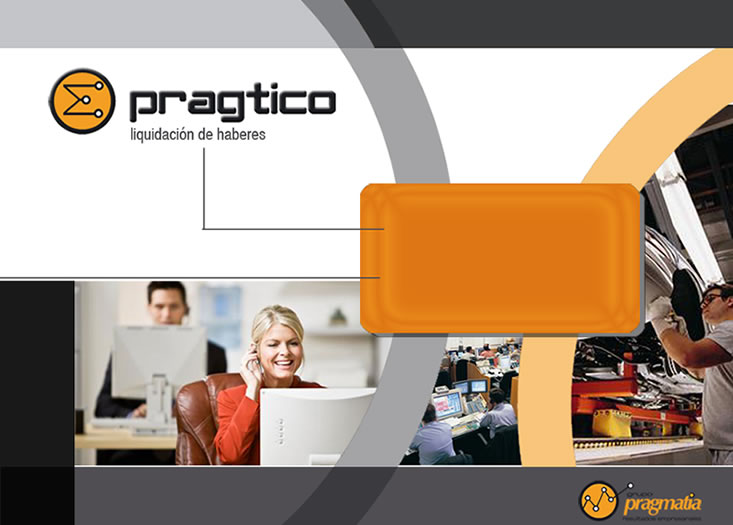
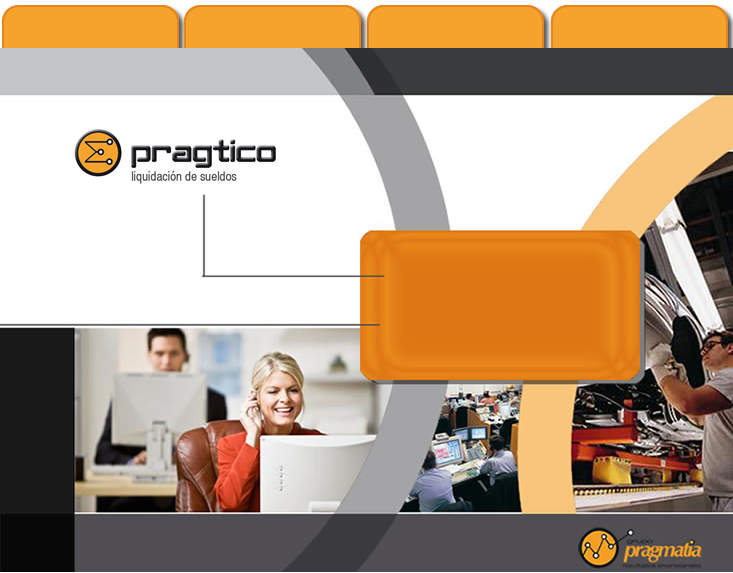
Link login with wiki

diff --git a/app/webroot/css/aplicacion.default.screen.min.css b/app/webroot/css/aplicacion.default.screen.min.css
@@ -1,1 +1,1 @@
-.seleccionar{cursor:pointer;}body{max-width:1000px;margin:2px;padding:0;font-size:10px;border:0;font-family:helvetica,verdana,arial,sans-serif;margin-left:auto;margin-right:auto;}img{border:0;}a{color:#000;text-decoration:none;}a:hover{text-decoration:underline;}ul{list-style-type:none;}li{margin:0;}li img{height:10px;width:10px;}div.login{margin-left:auto;margin-right:auto;background:transparent url(img/fondo_login.jpg) no-repeat;width:733px;height:525px;}div.login div.ingreso{padding-top:210px;padding-left:290px;width:200px;height:100px;}div.login div.ingreso label{float:left;}div.login div.ingreso div.input input{margin-bottom:4px;float:left;}div.login div.ingreso .submit input{margin-left:245px;padding-right:40px;padding-bottom:10px;margin-top:5px;font-weight:normal;background:transparent url(img/boton_secundario_gris.gif) no-repeat;cursor:pointer;}div.links_externos{margin-left:220px;margin-top:-20px;}div.links_externos a{padding:2px;display:block;float:left;}div.links_externos a img{height:14px;}div.index .botones_acciones{float:left;width:410px;}div.index div.bloque_superior_index{padding-left:15px;border-bottom:1px solid;height:28px;margin-right:8px;}div.index div.paginador_superior{padding-top:9px;margin-right:13px;float:right;}div.index div.bloque_inferior_index{margin-bottom:50px;padding-right:22px;}div.index div.navegacion{float:right;}div.index div.navegacion div{float:left;}div.index div.navegacion a{float:left;}div.index div.navegacion img{width:14px;height:14px;}div.index div.posicion{float:right;padding-right:20px;}div.index div.cantidad_a_mostrar{float:right;padding-right:20px;}div.index div.cantidad_a_mostrar a{color:#000;padding:0 1px 0 1px;}div.index div.cantidad_a_mostrar span{text-decoration:underline;padding:0 1px 0 1px;}div.contenido{background:transparent url(img/fondo_cuerpo.gif) no-repeat;margin-top:-4px;min-height:650px;}div.cuerpo{float:right;width:81%;padding-top:10px;}div.encabezado{background:#F49E23 url(img/encabezado.gif) no-repeat;width:100%;height:66px;color:#fff;}div.encabezado ul{padding-top:3px;margin:0;}div.encabezado ul li{padding-top:1px;}div.encabezado span.default{color:#202022;font-weight:bold;font-size:13px;}div.banda_izquierda{background:url(img/banda.gif) no-repeat;min-width:380px;height:45px;float:left;margin-top:-4px;}div.banda_izquierda p{padding-top:19px;padding-left:5px;float:left;font-size:12px;}div.banda{background:url(img/banda_repetir.gif) repeat-x;width:100%;height:45px;text-align:right;padding-top:4px;}div.banda span{padding:0 30px;color:#FFF;}div.banda span.bread_crumb_class{color:#000;padding:0;}div.banda img{padding-left:4px;}div.banda p{margin:5px 10px 0 0;}div.banda h5{width:500px;text-align:left;float:left;padding-top:4px;font-size:12px;}div.grupos{float:right;text-align:right;padding:5px 30px;height:50px;width:270px;overflow:auto;color:#FFF;}div.grupos a{color:#FFF;}div.menu{width:18%;float:left;font-weight:bold;}div.menu a{display:block;height:30px;margin-top:2px;}div.menu a:hover{text-decoration:none;}div.menu a.header{border:0;background:transparent url(img/boton_menu_padre.gif) no-repeat;}div.menu div{border:0;}div.menu img{float:left;}div.menu a span{font-size:11px;color:#fff;padding-top:6px;padding-left:5px;float:left;}div.menu div.panel span{float:right;padding-right:17px;}div.menu div.panel a{background:transparent url(img/boton_menu_hijo.gif) no-repeat;}div.menu div.panel a:hover{background-image:url(img/boton_menu_hijo_activo.gif);}div.unica{float:left;width:100%;max-width:860px;margin-bottom:40px;margin-right:30%;}div.unica:before,div.unica:after{display:block;line-height:0;}div.unica:after{margin-top:-35px;}div.index div.unica{background:url(img/rs-right-gris.gif) right repeat-y;}div.index div.unica:before{background:url(img/rs-topright-gris.gif) top right no-repeat;content:url(img/rs-topleft-gris.gif);}div.index div.unica:after{background:url(img/rs-bottomright-gris.gif) bottom right no-repeat;content:url(img/rs-bottomleft-gris.gif);}div.add div.unica{background:url(img/rs-right-rosa.gif) right repeat-y;}div.add div.unica:before{background:url(img/rs-topright-rosa.gif) top right no-repeat;content:url(img/rs-topleft-rosa.gif);}div.add div.unica:after{background:url(img/rs-bottomright-rosa.gif) bottom right no-repeat;content:url(img/rs-bottomleft-rosa.gif);}div.index div.tabla img{padding:0 1px 0 2px;width:14px;height:14px;}div.session_flash{color:#EDEEF0;margin:8px 3px 0 0;position:absolute;left:595px;width:534px;z-index:100;height:103px;font-size:12px;}div.session_flash_error{background:transparent url(img/aviso_error.gif) no-repeat;}div.session_flash_ok{background:transparent url(img/aviso_ok.gif) no-repeat;}div.session_flash_warning{background:transparent url(img/aviso_warning.gif) no-repeat;}div.session_flash_warning_detalle{background:transparent url(img/aviso_warning_detalle.gif) no-repeat;top:105px;height:309px;overflow:auto;display:none;border:2px solid;}div.session_flash_error_detalle{background:transparent url(img/aviso_error_detalle.gif) no-repeat;top:105px;height:309px;display:none;}div.session_flash span.detalle{font-size:10px;width:480px;float:left;padding:5px 0 0 45px;}div.session_flash span.contenido{float:left;width:480px;padding:0 0 0 45px;}div.session_flash span.titulos{float:left;padding-top:6px;margin-left:45px;border-bottom:1px dotted;}div.session_flash img{padding:7px 0 0 12px;float:left;}div.session_flash span{float:right;margin-right:18px;margin-top:7px;}label{text-align:right;width:120px;padding:0 3px;color:#000;float:left;}label.radio_label{width:195px;text-align:left;}legend{font-size:13px;border-width:1px;border-style:solid;border-bottom-color:#B7B7B9;border-top-style:none;border-right-style:none;border-left-style:none;}legend img{width:22px;height:22px;padding-right:18px;margin-top:-7px;}legend span{display:block;width:790px;}div.index legend{padding-bottom:2px;padding-left:10px;}div.add legend{padding-top:10px;padding-left:10px;background:url(img/legend_principal.gif) no-repeat;}div.add fieldset.master legend{background:url(img/legend_secundario.gif) no-repeat;}fieldset{margin:0;padding:0;border-style:none;}fieldset.master{padding-top:25px;padding-bottom:30px;}fieldset.detail{padding-top:10px;padding-bottom:30px;}div.tabla{margin:7px 13px 13px 13px;width:100%;overflow:auto;padding:0;max-width:790px;}div.tabla table{border-collapse:collapse;background-color:#F7CD93;font-size:10px;font-weight:normal;width:778px;}div.tabla table tr.alternativo{background-color:#FFF;}div.tabla table th,td.imitar_th_izquierda,td.imitar_th_derecha,td.imitar_th_centro{white-space:nowrap;background-color:#807F84;color:#FFF;padding:5px;border:1px solid #ccc;}div.tabla td.imitar_th_derecha{text-align:right;}div.tabla td.imitar_th_centro{text-align:center;}div.tabla table th a{color:#FFF;}div.tabla table th div.acciones{font-weight:normal;text-align:left;margin-left:-3px;}div.tabla table th .acciones span{font-weight:bold;margin-left:10px;}div.tabla table th .hide_actions{background:url(img/hide_actions.gif) no-repeat;cursor:pointer;padding-right:10px;padding-left:10px;}div.tabla table td{padding:3px 5px 3px 5px;border:1px solid #ccc;}div.tabla table td.acciones{white-space:nowrap;padding-right:13px;}div.tabla table th.derecha,table td.derecha{text-align:right;white-space:nowrap;}div.tabla table th.izquierda,table td.izquierda{text-align:left;}div.tabla table th.centro,table td.centro{text-align:center;}div.tabla table a.sin_orden,table a.asc_orden,table a.desc_orden{background-color:transparent;background-repeat:no-repeat;padding-left:15px;padding-top:3px;}div.tabla table a.sin_orden{background-image:url(img/orden_0.gif);}div.tabla table a.asc_orden{background-image:url(img/orden_1.gif);}div.tabla table a.desc_orden{background-image:url(img/orden_2.gif);}div.input{padding:3px 0 3px 0;margin-left:5px;float:left;width:365px;}input,textarea,select{float:left;width:196px;margin-right:2px;border:0;background:transparent url(img/text_input.gif) no-repeat;}input[disabled]{background-color:#EAEAEA;color:black;}input[type="file"]{width:210px;}input[type="radio"],input[type="checkbox"]{width:13px;margin:1px;}div.radio_opciones{float:left;}p.radio{height:16px;margin:0;padding:0;}input.periodo{width:140px;}input.derecha{text-align:right;}div.autocomplete{padding-bottom:15px;padding-top:15px;}div.autocomplete img{padding-left:2px;}div.autocomplete input.autocomplete{margin-bottom:10px;}textarea{background-color:transparent;background-repeat:no-repeat;height:48px;}div.add textarea{background-image:url(img/wide_textarea.gif);width:565px;}div.index textarea{background-image:url(img/textarea.gif);width:196px;}.expand_text_area{background:url(img/expand_text_area.png) no-repeat;padding-left:6px;width:15px;height:16px;float:left;cursor:pointer;}.colapse_text_area{background:url(img/colapse_text_area.png) no-repeat;padding-left:6px;width:15px;height:16px;float:left;cursor:pointer;}div.add div.textarea{padding:3px 0 3px 0;margin-left:5px;float:left;width:720px;}div.wysiwyg{padding:20px 0 3px 0;margin-left:15px;float:left;width:770px;}div.wysiwyg div.editor{width:560px;float:left;}div.wysiwyg label{width:110px;}span.solo_lectura{font-weight:bold;color:#948B84;}div.input div.checkbox{float:left;width:365px;padding-left:130px;}div.input div.checkbox label{text-align:left;width:200px;}div.input div.seleccion{padding-left:130px;}div.add div.botones_tablas_from_to{padding-bottom:20px;padding-top:10px;margin-right:20px;}div.tablasFromTo{width:100%;margin-bottom:130px;}div.tablasFromTo table.izquierda,table.derecha{width:380px;min-width:380px;max-width:380px;float:left;margin-top:8px;display:block;}div.tablasFromTo table.izquierda{margin-left:10px;}div.tablasFromTo table.derecha{margin-left:22px;}div.tablasFromTo thead td.quitar_todos,td.agregar_todos{cursor:pointer;text-align:center;padding:8px;}div.tablasFromTo td.quitar_todos{background:url(img/quitar_todos.gif) no-repeat left;}div.tablasFromTo td.agregar_todos{background:url(img/agregar_todos.gif) no-repeat right;}div.tablasFromTo thead th{min-width:370px;}div.tablasFromTo tbody td{width:100%;}div.tablasFromTo tbody td.agregar{background:url(img/agregar.gif) no-repeat center;min-width:20px;max-width:20px;width:20px;cursor:pointer;}div.tablasFromTo tbody td.quitar{background:url(img/quitar.gif) no-repeat center;min-width:20px;max-width:20px;width:20px;cursor:pointer;}div.desglose div.tabla{margin-bottom:35px;}div.desglose div.tabla table{width:740px;}div.desglose legend span{width:740px;}div.desglose div.cabecera{height:20px;}img.breakdown_icon{cursor:pointer;}div.desglose span.titulo{font-size:13px;font-weight:bold;padding-left:17px;float:left;}div.desglose span.acciones{float:right;padding-right:15px;}div.buscadores{padding:10px 40px 2px 0;}div.buscadores .submit input{float:right;}div.add div.volver_a_insertar label{width:210px;height:15px;padding:0;}div.add div.botones{height:50px;float:right;}a.link_boton,a.link_boton:hover,a.link_boton_rojo,a.link_boton_rojo:hover{font-weight:normal;padding-top:3px;padding-right:2px;height:20px;width:79px;text-align:center;float:left;color:#FFF;font-size:11px;text-decoration:none;}a.link_boton{background:url(img/boton_secundario_gris.gif) no-repeat;}a.link_boton_rojo{background:url(img/boton_secundario_naranja.gif) no-repeat;}.submit input{float:left;margin:7px 3px 3px 3px;padding-bottom:3px;width:120px;height:28px;color:#FFF;font-size:12px;background:transparent url(img/boton_condiciones_gris.gif) no-repeat;cursor:pointer;}.submit input.boton_rojo{background:url(img/boton_condiciones_naranja.gif) no-repeat;}.oculto{display:none;}span.aclaracion{float:left;color:#666;width:350px;}div.error-message{color:red;float:left;}span.aclaracion img{padding-top:3px;}div.clear{clear:both;}span.color_rojo{padding-left:2px;color:#F49E23;}.lov{overflow:auto;}img.lupa_lov{width:20px;height:18px;cursor:pointer;}img.fecha{cursor:pointer;width:25px;height:25px;}img.periodo,img.after{cursor:pointer;width:15px;height:15px;padding-left:1px;}img.imagen_mostrar{width:100px;height:100px;margin-left:125px;}form.edicion_en_grilla_deprecated input{background:none;width:50px;height:11px;text-align:right;float:right;padding:0;font-size:11px;margin:0;font-family:helvetica,verdana,arial,sans-serif;}#simplemodal-overlay{background-color:#000;cursor:wait;}#simplemodal-container{background-color:#fff;border:0;padding:0;margin:0;}#simplemodal-container a.modalCloseImg{background:url(img/cerrar.png) no-repeat;width:25px;height:29px;display:inline;z-index:3200;position:absolute;top:-14px;right:-18px;cursor:pointer;}tr.fila_resaltada{background-color:#E6FF55;}div.quitarDetalle{float:right;margin-top:-23px;padding-right:10px;}div.agregarDetalle{float:right;padding-right:28px;}div.add .submit{float:right;}
+.seleccionar{cursor:pointer;}body{max-width:1000px;margin:2px;padding:0;font-size:10px;border:0;font-family:helvetica,verdana,arial,sans-serif;margin-left:auto;margin-right:auto;}img{border:0;}a{color:#000;text-decoration:none;}a:hover{text-decoration:underline;}ul{list-style-type:none;}li{margin:0;}li img{height:10px;width:10px;}div.login{margin-left:auto;margin-right:auto;background:transparent url(img/fondo_login.jpg) no-repeat;width:733px;height:525px;}div.login div.tabs{padding-top:15px;width:733px;height:23px;}div.login div.tabs a{width:183px;text-align:center;font-size:14px;font-weight:bold;color:white;float:left;}div.login div.ingreso{padding-top:217px;padding-left:290px;width:200px;height:100px;}div.login div.ingreso label{float:left;}div.login div.ingreso div.input input{margin-bottom:4px;float:left;}div.login div.ingreso .submit input{margin-left:245px;padding-right:40px;padding-bottom:10px;margin-top:5px;font-weight:normal;background:transparent url(img/boton_secundario_gris.gif) no-repeat;cursor:pointer;}div.links_externos{margin-left:140px;margin-top:-20px;}div.links_externos a{margin:2px;display:block;float:left;}div.links_externos a img{height:14px;}div.index .botones_acciones{float:left;width:410px;}div.index div.bloque_superior_index{padding-left:15px;border-bottom:1px solid;height:28px;margin-right:8px;}div.index div.paginador_superior{padding-top:9px;margin-right:13px;float:right;}div.index div.bloque_inferior_index{margin-bottom:50px;padding-right:22px;}div.index div.navegacion{float:right;}div.index div.navegacion div{float:left;}div.index div.navegacion a{float:left;}div.index div.navegacion img{width:14px;height:14px;}div.index div.posicion{float:right;padding-right:20px;}div.index div.cantidad_a_mostrar{float:right;padding-right:20px;}div.index div.cantidad_a_mostrar a{color:#000;padding:0 1px 0 1px;}div.index div.cantidad_a_mostrar span{text-decoration:underline;padding:0 1px 0 1px;}div.contenido{background:transparent url(img/fondo_cuerpo.gif) no-repeat;margin-top:-4px;min-height:650px;}div.cuerpo{float:right;width:81%;padding-top:10px;}div.encabezado{background:#F49E23 url(img/encabezado.gif) no-repeat;width:100%;height:66px;color:#fff;}div.encabezado ul{padding-top:3px;margin:0;}div.encabezado ul li{padding-top:1px;}div.encabezado span.default{color:#202022;font-weight:bold;font-size:13px;}div.banda_izquierda{background:url(img/banda.gif) no-repeat;min-width:380px;height:45px;float:left;margin-top:-4px;}div.banda_izquierda p{padding-top:19px;padding-left:5px;float:left;font-size:12px;}div.banda{background:url(img/banda_repetir.gif) repeat-x;width:100%;height:45px;text-align:right;padding-top:4px;}div.banda span{padding:0 30px;color:#FFF;}div.banda span.bread_crumb_class{color:#000;padding:0;}div.banda img{padding-left:4px;}div.banda p{margin:5px 10px 0 0;}div.banda h5{width:500px;text-align:left;float:left;padding-top:4px;font-size:12px;}div.grupos{float:right;text-align:right;padding:5px 30px;height:50px;width:270px;overflow:auto;color:#FFF;}div.grupos a{color:#FFF;}div.menu{width:18%;float:left;font-weight:bold;}div.menu a{display:block;height:30px;margin-top:2px;}div.menu a:hover{text-decoration:none;}div.menu a.header{border:0;background:transparent url(img/boton_menu_padre.gif) no-repeat;}div.menu div{border:0;}div.menu img{float:left;}div.menu a span{font-size:11px;color:#fff;padding-top:6px;padding-left:5px;float:left;}div.menu div.panel span{float:right;padding-right:17px;}div.menu div.panel a{background:transparent url(img/boton_menu_hijo.gif) no-repeat;}div.menu div.panel a:hover{background-image:url(img/boton_menu_hijo_activo.gif);}div.unica{float:left;width:100%;max-width:860px;margin-bottom:40px;margin-right:30%;}div.unica:before,div.unica:after{display:block;line-height:0;}div.unica:after{margin-top:-35px;}div.index div.unica{background:url(img/rs-right-gris.gif) right repeat-y;}div.index div.unica:before{background:url(img/rs-topright-gris.gif) top right no-repeat;content:url(img/rs-topleft-gris.gif);}div.index div.unica:after{background:url(img/rs-bottomright-gris.gif) bottom right no-repeat;content:url(img/rs-bottomleft-gris.gif);}div.add div.unica{background:url(img/rs-right-rosa.gif) right repeat-y;}div.add div.unica:before{background:url(img/rs-topright-rosa.gif) top right no-repeat;content:url(img/rs-topleft-rosa.gif);}div.add div.unica:after{background:url(img/rs-bottomright-rosa.gif) bottom right no-repeat;content:url(img/rs-bottomleft-rosa.gif);}div.index div.tabla img{padding:0 1px 0 2px;width:14px;height:14px;}div.session_flash{color:#EDEEF0;margin:8px 3px 0 0;position:absolute;left:595px;width:534px;z-index:100;height:103px;font-size:12px;}div.session_flash_error{background:transparent url(img/aviso_error.gif) no-repeat;}div.session_flash_ok{background:transparent url(img/aviso_ok.gif) no-repeat;}div.session_flash_warning{background:transparent url(img/aviso_warning.gif) no-repeat;}div.session_flash_warning_detalle{background:transparent url(img/aviso_warning_detalle.gif) no-repeat;top:105px;height:309px;overflow:auto;display:none;border:2px solid;}div.session_flash_error_detalle{background:transparent url(img/aviso_error_detalle.gif) no-repeat;top:105px;height:309px;display:none;}div.session_flash span.detalle{font-size:10px;width:480px;float:left;padding:5px 0 0 45px;}div.session_flash span.contenido{float:left;width:480px;padding:0 0 0 45px;}div.session_flash span.titulos{float:left;padding-top:6px;margin-left:45px;border-bottom:1px dotted;}div.session_flash img{padding:7px 0 0 12px;float:left;}div.session_flash span{float:right;margin-right:18px;margin-top:7px;}label{text-align:right;width:120px;padding:0 3px;color:#000;float:left;}label.radio_label{width:195px;text-align:left;}legend{font-size:13px;border-width:1px;border-style:solid;border-bottom-color:#B7B7B9;border-top-style:none;border-right-style:none;border-left-style:none;}legend img{width:22px;height:22px;padding-right:18px;margin-top:-7px;}legend span{display:block;width:790px;}div.index legend{padding-bottom:2px;padding-left:10px;}div.add legend{padding-top:10px;padding-left:10px;background:url(img/legend_principal.gif) no-repeat;}div.add fieldset.master legend{background:url(img/legend_secundario.gif) no-repeat;}fieldset{margin:0;padding:0;border-style:none;}fieldset.master{padding-top:25px;padding-bottom:30px;}fieldset.detail{padding-top:10px;padding-bottom:30px;}div.tabla{margin:7px 13px 13px 13px;width:100%;overflow:auto;padding:0;max-width:790px;}div.tabla table{border-collapse:collapse;background-color:#F7CD93;font-size:10px;font-weight:normal;width:778px;}div.tabla table tr.alternativo{background-color:#FFF;}div.tabla table th,td.imitar_th_izquierda,td.imitar_th_derecha,td.imitar_th_centro{white-space:nowrap;background-color:#807F84;color:#FFF;padding:5px;border:1px solid #ccc;}div.tabla td.imitar_th_derecha{text-align:right;}div.tabla td.imitar_th_centro{text-align:center;}div.tabla table th a{color:#FFF;}div.tabla table th div.acciones{font-weight:normal;text-align:left;margin-left:-3px;}div.tabla table th .acciones span{font-weight:bold;margin-left:10px;}div.tabla table th .hide_actions{background:url(img/hide_actions.gif) no-repeat;cursor:pointer;padding-right:10px;padding-left:10px;}div.tabla table td{padding:3px 5px 3px 5px;border:1px solid #ccc;}div.tabla table td.acciones{white-space:nowrap;padding-right:13px;}div.tabla table th.derecha,table td.derecha{text-align:right;white-space:nowrap;}div.tabla table th.izquierda,table td.izquierda{text-align:left;}div.tabla table th.centro,table td.centro{text-align:center;}div.tabla table a.sin_orden,table a.asc_orden,table a.desc_orden{background-color:transparent;background-repeat:no-repeat;padding-left:15px;padding-top:3px;}div.tabla table a.sin_orden{background-image:url(img/orden_0.gif);}div.tabla table a.asc_orden{background-image:url(img/orden_1.gif);}div.tabla table a.desc_orden{background-image:url(img/orden_2.gif);}div.input{padding:3px 0 3px 0;margin-left:5px;float:left;width:365px;}input,textarea,select{float:left;width:196px;margin-right:2px;border:0;background:transparent url(img/text_input.gif) no-repeat;}input[disabled]{background-color:#EAEAEA;color:black;}input[type="file"]{width:210px;}input[type="radio"],input[type="checkbox"]{width:13px;margin:1px;}div.radio_opciones{float:left;}p.radio{height:16px;margin:0;padding:0;}input.periodo{width:140px;}input.derecha{text-align:right;}div.autocomplete{padding-bottom:15px;padding-top:15px;}div.autocomplete img{padding-left:2px;}div.autocomplete input.autocomplete{margin-bottom:10px;}textarea{background-color:transparent;background-repeat:no-repeat;height:48px;}div.add textarea{background-image:url(img/wide_textarea.gif);width:565px;}div.index textarea{background-image:url(img/textarea.gif);width:196px;}.expand_text_area{background:url(img/expand_text_area.png) no-repeat;padding-left:6px;width:15px;height:16px;float:left;cursor:pointer;}.colapse_text_area{background:url(img/colapse_text_area.png) no-repeat;padding-left:6px;width:15px;height:16px;float:left;cursor:pointer;}div.add div.textarea{padding:3px 0 3px 0;margin-left:5px;float:left;width:720px;}div.wysiwyg{padding:20px 0 3px 0;margin-left:15px;float:left;width:770px;}div.wysiwyg div.editor{width:560px;float:left;}div.wysiwyg label{width:110px;}span.solo_lectura{font-weight:bold;color:#948B84;}div.input div.checkbox{float:left;width:365px;padding-left:130px;}div.input div.checkbox label{text-align:left;width:200px;}div.input div.seleccion{padding-left:130px;}div.add div.botones_tablas_from_to{padding-bottom:20px;padding-top:10px;margin-right:20px;}div.tablasFromTo{width:100%;margin-bottom:130px;}div.tablasFromTo table.izquierda,table.derecha{width:380px;min-width:380px;max-width:380px;float:left;margin-top:8px;display:block;}div.tablasFromTo table.izquierda{margin-left:10px;}div.tablasFromTo table.derecha{margin-left:22px;}div.tablasFromTo thead td.quitar_todos,td.agregar_todos{cursor:pointer;text-align:center;padding:8px;}div.tablasFromTo td.quitar_todos{background:url(img/quitar_todos.gif) no-repeat left;}div.tablasFromTo td.agregar_todos{background:url(img/agregar_todos.gif) no-repeat right;}div.tablasFromTo thead th{min-width:370px;}div.tablasFromTo tbody td{width:100%;}div.tablasFromTo tbody td.agregar{background:url(img/agregar.gif) no-repeat center;min-width:20px;max-width:20px;width:20px;cursor:pointer;}div.tablasFromTo tbody td.quitar{background:url(img/quitar.gif) no-repeat center;min-width:20px;max-width:20px;width:20px;cursor:pointer;}div.desglose div.tabla{margin-bottom:35px;}div.desglose div.tabla table{width:740px;}div.desglose legend span{width:740px;}div.desglose div.cabecera{height:20px;}img.breakdown_icon{cursor:pointer;}div.desglose span.titulo{font-size:13px;font-weight:bold;padding-left:17px;float:left;}div.desglose span.acciones{float:right;padding-right:15px;}div.buscadores{padding:10px 40px 2px 0;}div.buscadores .submit input{float:right;}div.add div.volver_a_insertar label{width:210px;height:15px;padding:0;}div.add div.botones{height:50px;float:right;}a.link_boton,a.link_boton:hover,a.link_boton_rojo,a.link_boton_rojo:hover{font-weight:normal;padding-top:3px;padding-right:2px;height:20px;width:79px;text-align:center;float:left;color:#FFF;font-size:11px;text-decoration:none;}a.link_boton{background:url(img/boton_secundario_gris.gif) no-repeat;}a.link_boton_rojo{background:url(img/boton_secundario_naranja.gif) no-repeat;}.submit input{float:left;margin:7px 3px 3px 3px;padding-bottom:3px;width:120px;height:28px;color:#FFF;font-size:12px;background:transparent url(img/boton_condiciones_gris.gif) no-repeat;cursor:pointer;}.submit input.boton_rojo{background:url(img/boton_condiciones_naranja.gif) no-repeat;}.oculto{display:none;}span.aclaracion{float:left;color:#666;width:350px;}div.error-message{color:red;float:left;}span.aclaracion img{padding-top:3px;}div.clear{clear:both;}span.color_rojo{padding-left:2px;color:#F49E23;}.lov{overflow:auto;}img.lupa_lov{width:20px;height:18px;cursor:pointer;}img.fecha{cursor:pointer;width:25px;height:25px;}img.periodo,img.after{cursor:pointer;width:15px;height:15px;padding-left:1px;}img.imagen_mostrar{width:100px;height:100px;margin-left:125px;}form.edicion_en_grilla_deprecated input{background:none;width:50px;height:11px;text-align:right;float:right;padding:0;font-size:11px;margin:0;font-family:helvetica,verdana,arial,sans-serif;}#simplemodal-overlay{background-color:#000;cursor:wait;}#simplemodal-container{background-color:#fff;border:0;padding:0;margin:0;}#simplemodal-container a.modalCloseImg{background:url(img/cerrar.png) no-repeat;width:25px;height:29px;display:inline;z-index:3200;position:absolute;top:-14px;right:-18px;cursor:pointer;}tr.fila_resaltada{background-color:#E6FF55;}div.quitarDetalle{float:right;margin-top:-23px;padding-right:10px;}div.agregarDetalle{float:right;padding-right:28px;}div.add .submit{float:right;}

diff --git a/app/webroot/css/aplicacion.default.screen.css b/app/webroot/css/aplicacion.default.screen.css
@@ -55,8 +55,23 @@ div.login {
 	height: 525px;
 }
 
+div.login div.tabs {
+    padding-top: 15px;
+    width: 733px;
+    height: 23px;
+}
+
+div.login div.tabs a {
+    width: 183px;
+    text-align: center;
+    font-size: 14px;
+    font-weight: bold;
+    color: white;
+    float: left;
+}
+
 div.login div.ingreso {
-	padding-top: 210px;
+	padding-top: 217px;
 	padding-left: 290px;
 	width: 200px;
 	height: 100px;
@@ -83,12 +98,12 @@ div.login div.ingreso .submit input {
 }
 
 div.links_externos {
-	margin-left: 220px;
+	margin-left: 140px;
 	margin-top: -20px;
 }
 
 div.links_externos a {
-	padding: 2px;
+	margin: 2px;
 	display: block;
 	float: left;
 }
